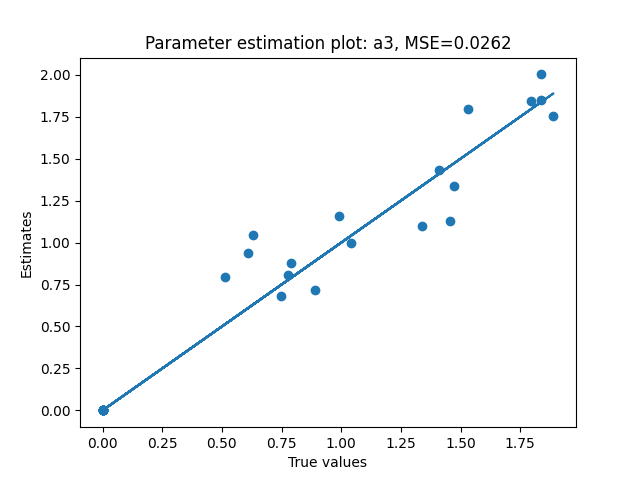
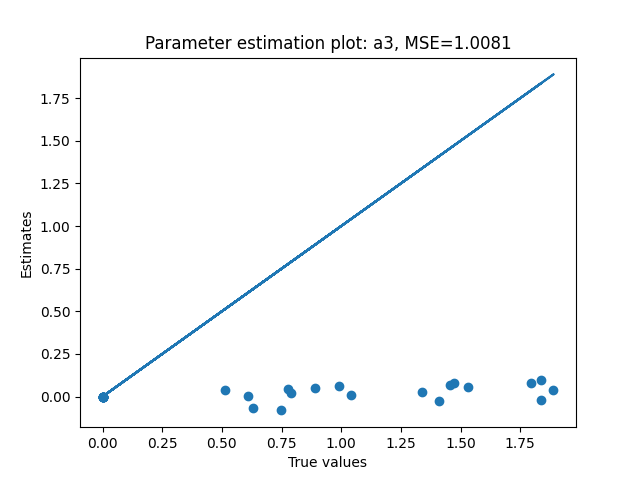
fixed minor bug for cvae single iw

diff --git a/MIRTVAE/main.py b/MIRTVAE/main.py
@@ -65,7 +65,7 @@ else:
     #it = cfg["iteration"]
     it =1
     covMat = np.full((cfg['mirt_dim'], cfg['mirt_dim']), cfg['covariance'])  # covariance matrix of dimensionss
-    #data = pd.read_csv(f'./data/simulated/data_{cfg["mirt_dim"]}_{it}.csv', header=None, index_col=False).to_numpy()
+    data = pd.read_csv(f'./data/simulated/data_{cfg["mirt_dim"]}_{it}.csv', header=None, index_col=False).to_numpy()
     a = pd.read_csv(f'./parameters/simulated/a_{cfg["mirt_dim"]}_{it}.csv', header=None, index_col=False).to_numpy()
     b = np.squeeze(pd.read_csv(f'./parameters/simulated/b_{cfg["mirt_dim"]}_{it}.csv', header=None, index_col=False).to_numpy())
     theta = pd.read_csv(f'./parameters/simulated/theta_{cfg["mirt_dim"]}_{it}.csv', header=None, index_col=False).to_numpy()
@@ -75,9 +75,9 @@ else:
     Q = pd.read_csv(f'./QMatrices/QMatrix{cfg["mirt_dim"]}D.csv', header=None).values
 
 
-    exponent = np.dot(theta, a.T) + b
-    prob = np.exp(exponent) / (1 + np.exp(exponent))
-    data = np.random.binomial(1, prob).astype(float)
+    # exponent = np.dot(theta, a.T) + b
+    # prob = np.exp(exponent) / (1 + np.exp(exponent))
+    # data = np.random.binomial(1, prob).astype(float)
 
 
 

diff --git a/MIRTVAE/model.py b/MIRTVAE/model.py
@@ -326,7 +326,7 @@ class VAE(pl.LightningModule):
         data, mask = batch
 
         if self.n_samples == 1:
-            mu, _ = self.encoder(data)
+            mu, _ = self.encoder(data, mask)
             return mu.squeeze()
         else:
             scores = torch.empty((n_mc_samples, data.shape[0], self.latent_dims))
